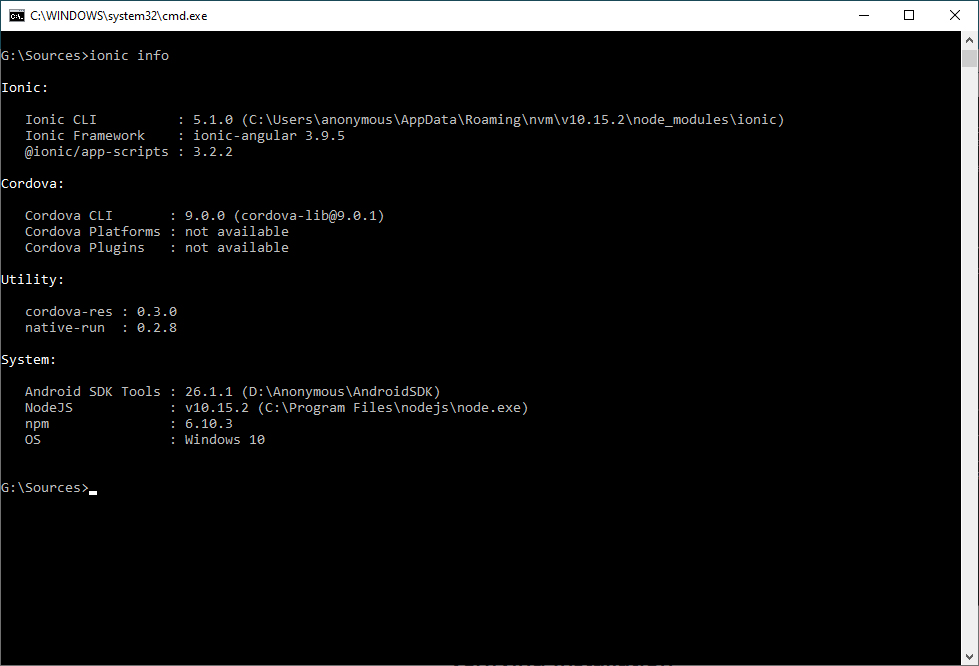
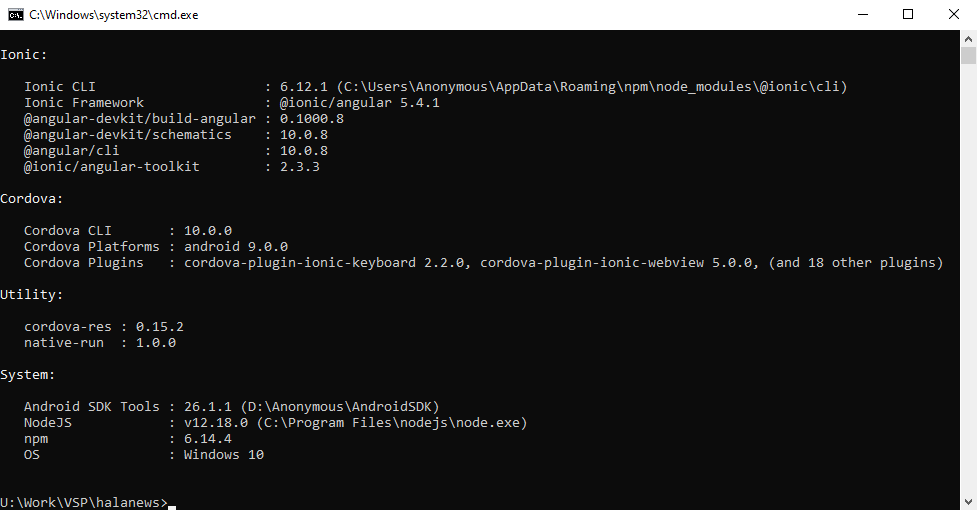
Update getting started installation

diff --git a/docs/getting-started-installation.md b/docs/getting-started-installation.md
@@ -22,7 +22,7 @@ If you’re new to the command line, please read [Ionic Command line tutorial](h
 
 1. Simply follow the prompts in the installer.
 
-1. Run the Terminal installation script: `npm install -g cordova ionic`
+1. Run the Terminal installation script: `npm i -g cordova @ionic/cli`
 
 ## Install WordPress plugin
 
@@ -40,13 +40,17 @@ Extract Sources folder in .zip you get when purchase to wherever you want, you a
 
 1. `cd Sources`
 
-1. Run the Node modules initialization script `npm install`
+1. Run the Node modules initialization script `npm install`.
 
 ![](/halanews-document/docs/assets/node-modules-install.png)
+
+* Ignore all `WARN` and NEVER run audit fix if you dont know what it is.
 
 ## Verifying Installation
 
 After installation process you need check and verify that all working fine by run `ionic info`
+
+(Version information maybe different, higher no problems)
 
 ![](/halanews-document/docs/assets/verifying-installation.png)
 
@@ -59,7 +63,10 @@ root-directory
 ├── resources
 ├── src
 │   ├── app
+│   │   ├── classes
 │   │   ├── components
+│   │   ├── const
+│   │   ├── directives
 │   │   ├── home
 │   │   ├── pages
 │   │   ├── pipes
